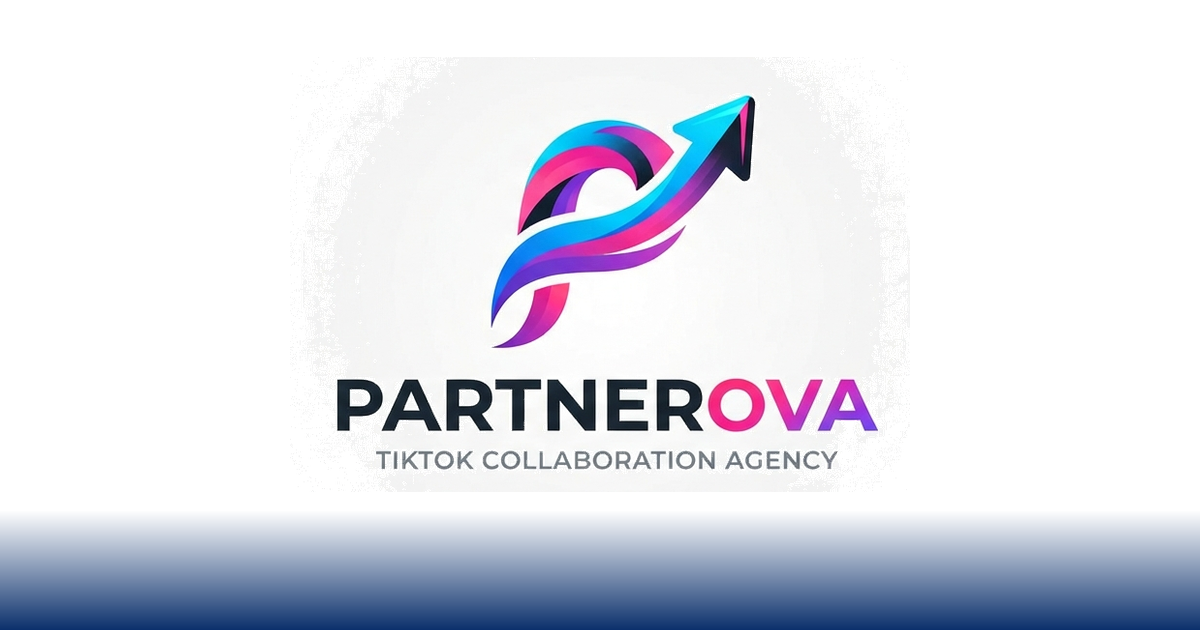
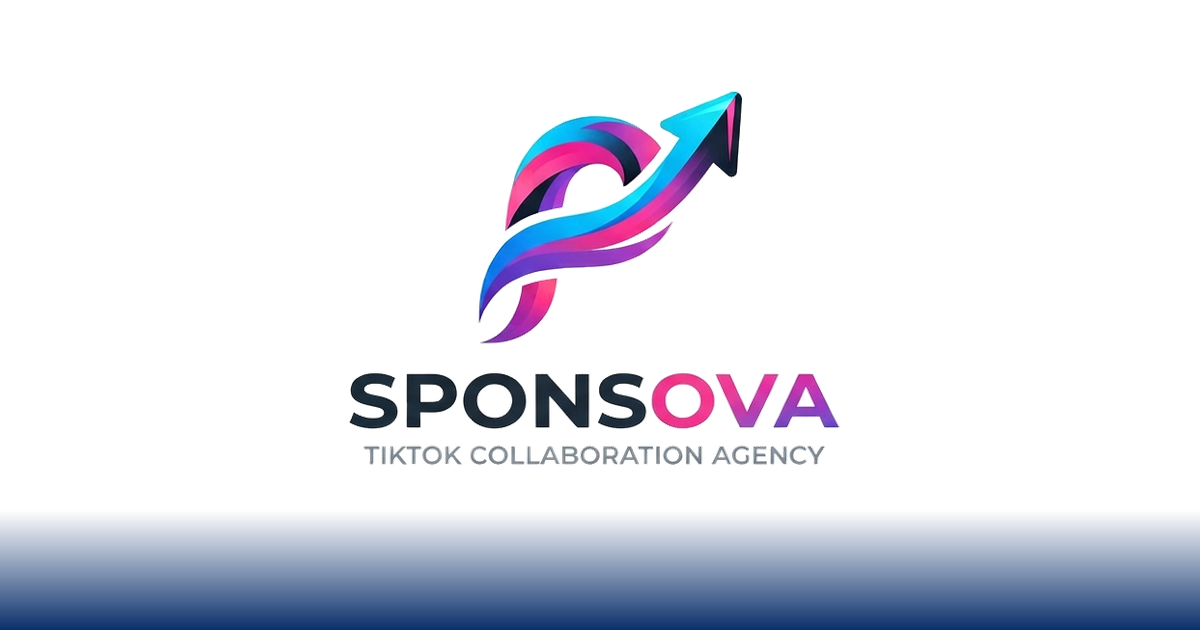
Add files via upload

Changed region(s): [[0.2775, 0.1508, 0.74, 0.754]]

diff --git a/components/Footer.js b/components/Footer.js
@@ -6,7 +6,7 @@ export default function Footer() {
     <footer className="site-footer">
       <div className="container footer-grid">
         <div className="footer-col footer-brand">
-          <img src="/logo.png" alt="Partnerova" className="logo-img" style={{ height: 32, marginBottom: 14 }} />
+          <img src="/logo.png" alt="Sponsova" className="logo-img" style={{ height: 32, marginBottom: 14 }} />
           <p>Des collaborations choisies avec soin, pas au hasard.</p>
         </div>
 
@@ -23,10 +23,16 @@ export default function Footer() {
           <Link href="/cgu">Conditions d'utilisation</Link>
           <a href={`mailto:${ADMIN_EMAIL}`}>Nous contacter</a>
         </div>
+
+        <div className="footer-col">
+          <h4>Réseaux</h4>
+          <a href="https://www.instagram.com/sponsova.agency" target="_blank" rel="noreferrer">Instagram</a>
+          <a href="https://www.tiktok.com/@sponsova" target="_blank" rel="noreferrer">TikTok</a>
+        </div>
       </div>
       <div className="footer-bottom">
         <div className="container footer-bottom-inner">
-          <span>© {new Date().getFullYear()} Partnerova. Tous droits réservés.</span>
+          <span>© {new Date().getFullYear()} Sponsova. Tous droits réservés.</span>
         </div>
       </div>
     </footer>

diff --git a/app/layout.js b/app/layout.js
@@ -4,21 +4,21 @@ const SITE_URL = 'https://partnerova-qzol-liard.vercel.app';
 
 export const metadata = {
   metadataBase: new URL(SITE_URL),
-  title: 'Partnerova — Agence de collaborations TikTok',
+  title: 'Sponsova — Agence de collaborations TikTok',
   description: "Plateforme de mise en relation entre marques et influenceurs",
   icons: { icon: '/logo.png' },
   openGraph: {
-    title: 'Partnerova — Agence de collaborations TikTok',
+    title: 'Sponsova — Agence de collaborations TikTok',
     description: "Des collaborations choisies avec soin, pas au hasard.",
     url: SITE_URL,
-    siteName: 'Partnerova',
-    images: [{ url: '/og-image.png', width: 1200, height: 630, alt: 'Partnerova' }],
+    siteName: 'Sponsova',
+    images: [{ url: '/og-image.png', width: 1200, height: 630, alt: 'Sponsova' }],
     locale: 'fr_FR',
     type: 'website',
   },
   twitter: {
     card: 'summary_large_image',
-    title: 'Partnerova — Agence de collaborations TikTok',
+    title: 'Sponsova — Agence de collaborations TikTok',
     description: "Des collaborations choisies avec soin, pas au hasard.",
     images: ['/og-image.png'],
   },

diff --git a/app/globals.css b/app/globals.css
@@ -87,7 +87,7 @@ a { color: inherit; }
 .hero-actions { display: flex; gap: 14px; flex-wrap: wrap; }
 
 .how {
-  padding: 60px 0;
+  padding: 60px 0 110px;
   display: grid;
   grid-template-columns: repeat(3, 1fr);
   gap: 30px;
@@ -197,10 +197,10 @@ a { color: inherit; }
 .legal-page h2 { font-size: 18px; margin-top: 32px; color: var(--blue-dark); }
 .legal-page p, .legal-page li { color: #33415a; font-size: 14.5px; }
 
-.site-footer { margin-top: 40px; background: var(--blue-dark); color: #cfe0f7; }
+.site-footer { margin-top: 120px; background: var(--blue-dark); color: #cfe0f7; }
 .footer-grid {
   display: grid;
-  grid-template-columns: 1.6fr 1fr 1fr;
+  grid-template-columns: 1.6fr 1fr 1fr 1fr;
   gap: 30px;
   padding: 50px 24px 36px;
 }

diff --git a/app/inscription/influenceur/page.js b/app/inscription/influenceur/page.js
@@ -117,7 +117,7 @@ export default function InscriptionInfluenceur() {
           </div>
           <label className="field-check">
             <input type="checkbox" checked={form.cgu} onChange={update('cgu')} />
-            <span>J'accepte les <Link href="/cgu" target="_blank" style={{ color: 'var(--blue)' }}>conditions d'utilisation</Link> de Partnerova.</span>
+            <span>J'accepte les <Link href="/cgu" target="_blank" style={{ color: 'var(--blue)' }}>conditions d'utilisation</Link> de Sponsova.</span>
           </label>
           {error && <p className="error-msg">{error}</p>}
           <button className="btn btn-primary" style={{ width: '100%' }} disabled={loading}>

diff --git a/app/inscription/marque/page.js b/app/inscription/marque/page.js
@@ -107,7 +107,7 @@ export default function InscriptionMarque() {
           </div>
           <label className="field-check">
             <input type="checkbox" checked={form.cgu} onChange={update('cgu')} />
-            <span>J'accepte les <Link href="/cgu" target="_blank" style={{ color: 'var(--blue)' }}>conditions d'utilisation</Link> de Partnerova.</span>
+            <span>J'accepte les <Link href="/cgu" target="_blank" style={{ color: 'var(--blue)' }}>conditions d'utilisation</Link> de Sponsova.</span>
           </label>
           {error && <p className="error-msg">{error}</p>}
           <button className="btn btn-primary" style={{ width: '100%' }} disabled={loading}>

diff --git a/app/cgu/page.js b/app/cgu/page.js
@@ -11,7 +11,7 @@ export default function CGU() {
 
       <h2>1. Objet</h2>
       <p>
-        Partnerova ("l'Agence") est une plateforme de mise en relation entre des marques et des
+        Sponsova ("l'Agence") est une plateforme de mise en relation entre des marques et des
         influenceurs en vue de collaborations commerciales (partenariats, contenus sponsorisés, etc.).
         L'Agence agit en tant qu'intermédiaire : elle sélectionne, vérifie et transmet des profils,
         mais n'est pas partie aux contrats de collaboration conclus entre marques et influenceurs.

diff --git a/app/admin/dashboard/page.js b/app/admin/dashboard/page.js
@@ -94,7 +94,7 @@ export default function AdminDashboard() {
     <div className="container">
       <div className="dash-header">
         <div style={{ display: 'flex', alignItems: 'center', gap: 12 }}>
-          <img src="/logo.png" alt="Partnerova" className="logo-img" />
+          <img src="/logo.png" alt="Sponsova" className="logo-img" />
           <span style={{ fontSize: 13, color: 'var(--gray)' }}>admin</span>
         </div>
         <button className="btn btn-outline" onClick={logout}>Déconnexion</button>

diff --git a/app/page.js b/app/page.js
@@ -6,7 +6,7 @@ export default function Home() {
     <>
       <div className="container">
         <nav className="nav">
-          <Link href="/"><img src="/logo.png" alt="Partnerova" className="logo-img" /></Link>
+          <Link href="/"><img src="/logo.png" alt="Sponsova" className="logo-img" /></Link>
           <div className="nav-links">
             <Link href="/connexion">Connexion</Link>
             <Link href="/inscription/influenceur" className="btn btn-outline">Je suis influenceur</Link>

diff --git a/app/dashboard/marque/page.js b/app/dashboard/marque/page.js
@@ -96,7 +96,7 @@ export default function DashboardMarque() {
   return (
     <div className="container">
       <div className="dash-header">
-        <img src="/logo.png" alt="Partnerova" className="logo-img" />
+        <img src="/logo.png" alt="Sponsova" className="logo-img" />
         <div className="nav-links">
           <span style={{ color: 'var(--gray)' }}>{marque.nom_entreprise}</span>
           <button className="btn btn-outline" onClick={logout}>Déconnexion</button>

diff --git a/app/dashboard/influenceur/page.js b/app/dashboard/influenceur/page.js
@@ -71,7 +71,7 @@ export default function DashboardInfluenceur() {
   return (
     <div className="container">
       <div className="dash-header">
-        <img src="/logo.png" alt="Partnerova" className="logo-img" />
+        <img src="/logo.png" alt="Sponsova" className="logo-img" />
         <div className="nav-links">
           <span style={{ color: 'var(--gray)' }}>{profil.nom}</span>
           <button className="btn btn-outline" onClick={logout}>Déconnexion</button>

diff --git a/app/admin/connexion/page.js b/app/admin/connexion/page.js
@@ -33,7 +33,7 @@ export default function AdminConnexion() {
   return (
     <div className="container">
       <div style={{ textAlign: 'center', paddingTop: 40 }}>
-        <img src="/logo.png" alt="Partnerova" className="logo-img" style={{ margin: '0 auto' }} />
+        <img src="/logo.png" alt="Sponsova" className="logo-img" style={{ margin: '0 auto' }} />
       </div>
       <div className="form-card" style={{ marginTop: 20 }}>
         <h1>Espace admin</h1>

diff --git a/app/connexion/page.js b/app/connexion/page.js
@@ -34,7 +34,7 @@ export default function Connexion() {
   return (
     <div className="container">
       <div style={{ textAlign: 'center', paddingTop: 40 }}>
-        <img src="/logo.png" alt="Partnerova" className="logo-img" style={{ margin: '0 auto' }} />
+        <img src="/logo.png" alt="Sponsova" className="logo-img" style={{ margin: '0 auto' }} />
       </div>
       <div className="form-card" style={{ marginTop: 20 }}>
         <h1>Connexion</h1>
